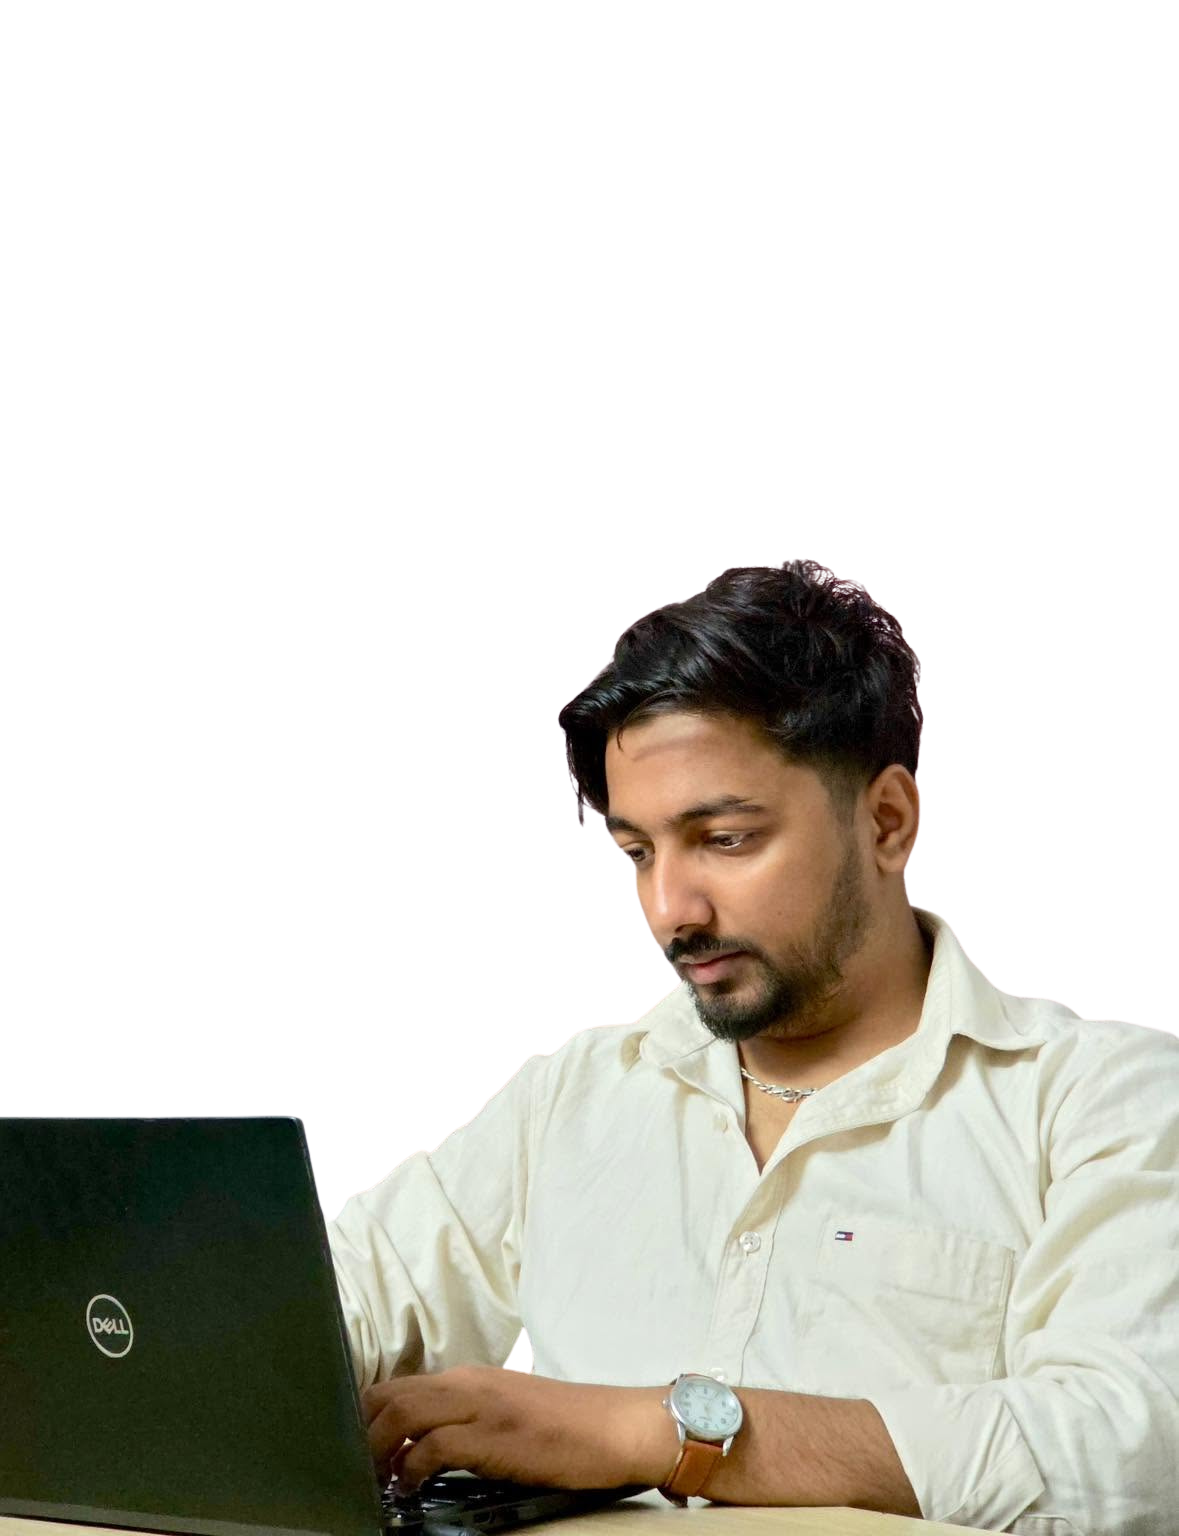
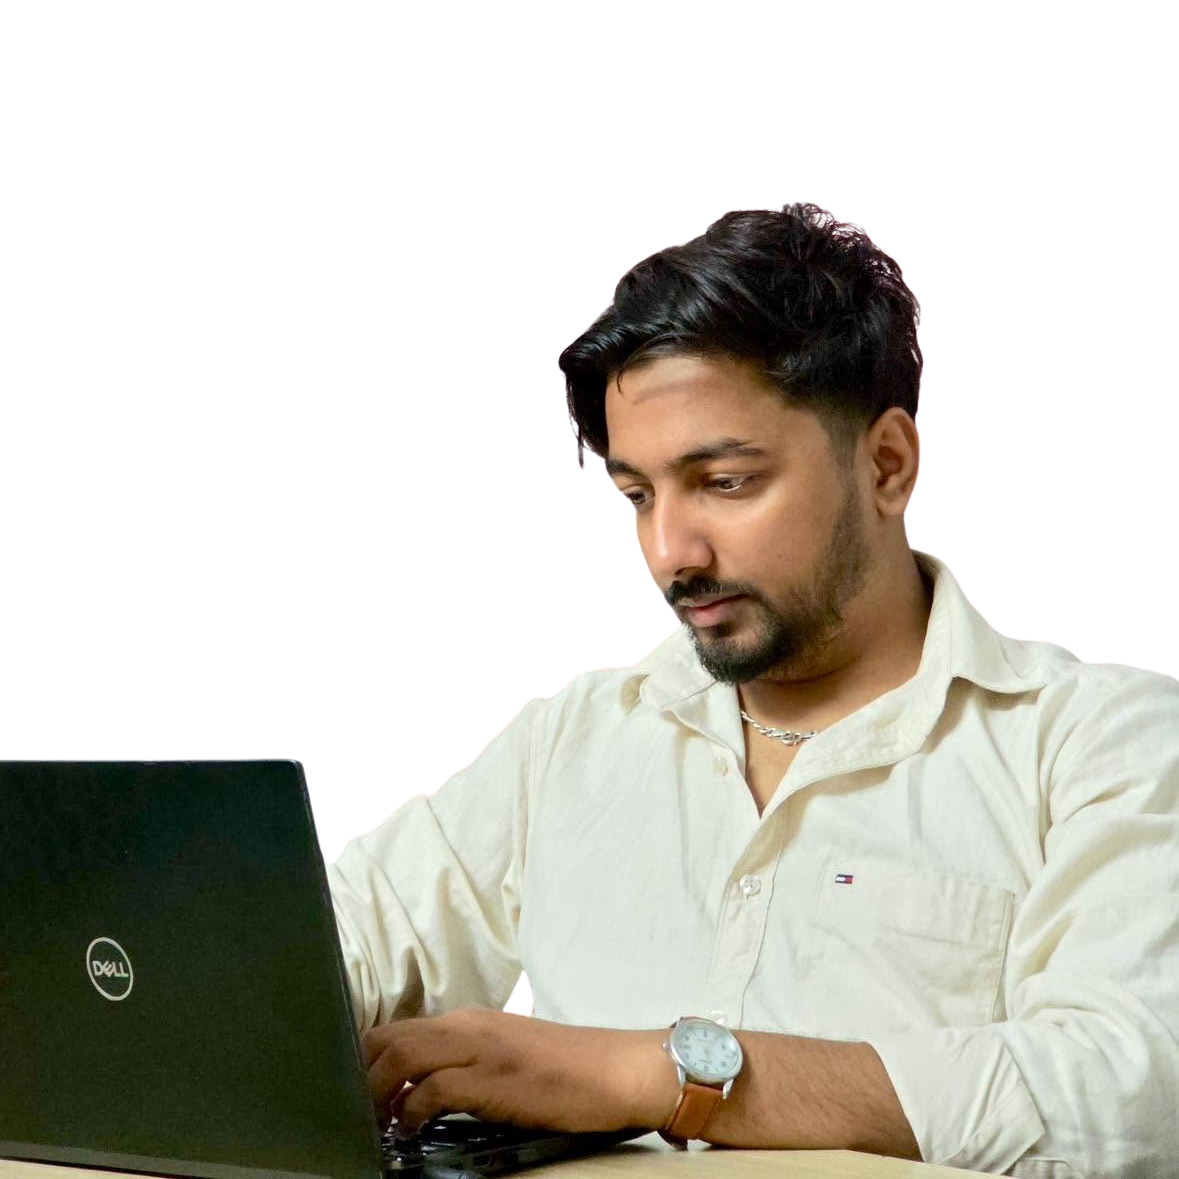
bibek and aayush photo added

diff --git a/src/components/sections/about/team.tsx b/src/components/sections/about/team.tsx
@@ -1,8 +1,9 @@
+import Image from "next/image"
 import { Mail } from "lucide-react"
 import { Stagger, StaggerItem } from "@/components/motion/stagger"
 import { SectionHeading } from "@/components/shared/section-heading"
 import { socialIcons } from "@/components/shared/social-icons"
-import { team } from "@/data/team"
+import { team, type TeamMember } from "@/data/team"
 import { siteConfig } from "@/data/site"
 
 export function Team() {
@@ -23,33 +24,30 @@ export function Team() {
         <Stagger className="mx-auto mt-14 grid max-w-5xl gap-6 sm:grid-cols-2 lg:grid-cols-3" stagger={0.12}>
           {team.map((m) => (
             <StaggerItem key={m.name}>
-              <article className="group gradient-border relative h-full overflow-hidden rounded-3xl border bg-card p-7 text-center transition-all duration-300 hover:-translate-y-1.5 hover:border-transparent hover:shadow-2xl hover:shadow-brand-blue/10">
-                <div aria-hidden className="absolute inset-x-0 top-0 h-24 bg-brand-gradient opacity-[0.08] transition-opacity duration-500 group-hover:opacity-20" />
-                <div className="relative mx-auto flex size-28 items-center justify-center rounded-full bg-brand-gradient p-1 shadow-lg shadow-brand-blue/25 transition-transform duration-500 group-hover:scale-105">
-                  <div className="flex size-full items-center justify-center rounded-full bg-card">
-                    <span className="text-gradient font-heading text-3xl font-extrabold">{m.initials}</span>
+              <article className="group gradient-border relative flex h-full flex-col overflow-hidden rounded-3xl border bg-card transition-all duration-300 hover:-translate-y-1.5 hover:border-transparent hover:shadow-2xl hover:shadow-brand-blue/10">
+                <Portrait member={m} />
+                <div className="relative flex flex-1 flex-col px-7 pt-2 pb-7 text-center">
+                  <h3 className="text-xl font-bold">{m.name}</h3>
+                  <p className="mt-1 text-sm font-semibold text-brand-teal-text">{m.role}</p>
+                  <p className="mt-4 text-sm leading-relaxed text-muted-foreground">{m.bio}</p>
+                  <div className="mt-auto flex justify-center gap-2 pt-6">
+                    <a
+                      href={m.linkedin}
+                      target="_blank"
+                      rel="noopener noreferrer"
+                      aria-label={`${m.name} on LinkedIn`}
+                      className="flex size-9 items-center justify-center rounded-full border text-muted-foreground transition-colors hover:border-brand-blue/50 hover:text-brand-blue"
+                    >
+                      <LinkedIn className="size-4" />
+                    </a>
+                    <a
+                      href={`mailto:${siteConfig.contact.email}`}
+                      aria-label={`Email ${m.name}`}
+                      className="flex size-9 items-center justify-center rounded-full border text-muted-foreground transition-colors hover:border-brand-blue/50 hover:text-brand-blue"
+                    >
+                      <Mail className="size-4" />
+                    </a>
                   </div>
-                </div>
-                <h3 className="relative mt-6 text-xl font-bold">{m.name}</h3>
-                <p className="relative mt-1 text-sm font-semibold text-brand-teal-text">{m.role}</p>
-                <p className="relative mt-4 text-sm leading-relaxed text-muted-foreground">{m.bio}</p>
-                <div className="relative mt-6 flex justify-center gap-2">
-                  <a
-                    href="https://linkedin.com"
-                    target="_blank"
-                    rel="noopener noreferrer"
-                    aria-label={`${m.name} on LinkedIn`}
-                    className="flex size-9 items-center justify-center rounded-full border text-muted-foreground transition-colors hover:border-brand-blue/50 hover:text-brand-blue"
-                  >
-                    <LinkedIn className="size-4" />
-                  </a>
-                  <a
-                    href={`mailto:${siteConfig.contact.email}`}
-                    aria-label={`Email ${m.name}`}
-                    className="flex size-9 items-center justify-center rounded-full border text-muted-foreground transition-colors hover:border-brand-blue/50 hover:text-brand-blue"
-                  >
-                    <Mail className="size-4" />
-                  </a>
                 </div>
               </article>
             </StaggerItem>
@@ -57,5 +55,49 @@ export function Team() {
         </Stagger>
       </div>
     </section>
+  )
+}
+
+// Branded backdrop for the background-removed cutouts; members without a photo get their initials.
+function Portrait({ member }: { member: TeamMember }) {
+  const { photo } = member
+
+  return (
+    <div className="relative aspect-[4/5] overflow-hidden bg-gradient-to-b from-brand-blue/[0.07] to-brand-teal/[0.16] dark:from-brand-blue/[0.18] dark:to-brand-teal/[0.08]">
+      <div aria-hidden className="absolute inset-0 bg-grid" />
+      <div
+        aria-hidden
+        className="absolute top-[42%] left-1/2 size-3/4 -translate-x-1/2 -translate-y-1/2 rounded-full bg-brand-gradient opacity-25 blur-3xl transition-opacity duration-500 group-hover:opacity-45 dark:opacity-35"
+      />
+
+      {photo ? (
+        // Wrapper handles the hover zoom so it doesn't fight the per-photo framing transform
+        <div className="absolute inset-0 origin-bottom transition-transform duration-700 ease-out group-hover:scale-[1.04]">
+          <Image
+            src={photo.src}
+            alt={`Portrait of ${member.name}, ${member.role}`}
+            fill
+            sizes="(min-width: 1024px) 320px, (min-width: 640px) 45vw, 100vw"
+            className="object-cover drop-shadow-[0_12px_24px_rgba(4,125,252,0.18)]"
+            style={{
+              objectPosition: photo.focus,
+              transform: `scale(${photo.zoom})`,
+              transformOrigin: photo.focus,
+            }}
+          />
+        </div>
+      ) : (
+        <div className="absolute inset-0 flex items-center justify-center">
+          <div className="flex size-36 items-center justify-center rounded-full bg-brand-gradient p-1 shadow-xl shadow-brand-blue/25 transition-transform duration-500 group-hover:scale-105">
+            <div className="flex size-full items-center justify-center rounded-full bg-card">
+              <span className="text-gradient font-heading text-5xl font-extrabold">{member.initials}</span>
+            </div>
+          </div>
+        </div>
+      )}
+
+      {/* Fades the bottom of the photo into the card body */}
+      <div aria-hidden className="absolute inset-x-0 bottom-0 h-20 bg-gradient-to-t from-card to-transparent" />
+    </div>
   )
 }

diff --git a/src/data/team.ts b/src/data/team.ts
@@ -1,11 +1,25 @@
+export type TeamMember = {
+  name: string
+  role: string
+  linkedin: string
+  initials: string
+  bio: string
+  /**
+   * Background-removed square cutout in /public/images. `focus` is the CSS position the photo is
+   * anchored to (keep y at 100% so the cutout sits on the card edge); `zoom` enlarges it from there.
+   */
+  photo?: { src: string; focus: string; zoom: number }
+}
+
 // Bios are placeholders — edit freely.
-export const team = [
+export const team: TeamMember[] = [
   {
     name: "Aayush Dhakal",
     role: "Chief Executive Officer",
     linkedin: "https://www.linkedin.com/in/aayush-dhakal-max",
     initials: "AD",
     bio: "Founder of Athena Software Labs. Aayush leads the company's vision of bringing modern, affordable digital solutions to schools and businesses across Nepal.",
+    photo: { src: "/images/aayush_dhakal_pic.png", focus: "42% 100%", zoom: 1.25 },
   },
   {
     name: "Bibek Bhattarai",
@@ -13,6 +27,7 @@ export const team = [
     linkedin: "https://www.linkedin.com/in/xspark/",
     initials: "BB",
     bio: "Bibek leads engineering and architecture at Athena, making sure every product we ship is secure, scalable and built to last.",
+    photo: { src: "/images/bibek_bhattarai_pic.png", focus: "72% 100%", zoom: 1 },
   },
   {
     name: "Sanjog Karki",
@@ -21,4 +36,4 @@ export const team = [
     initials: "SK",
     bio: "Sanjog connects Athena with schools and businesses, understanding their needs and helping them get the most out of our solutions.",
   },
-] as const
+]
